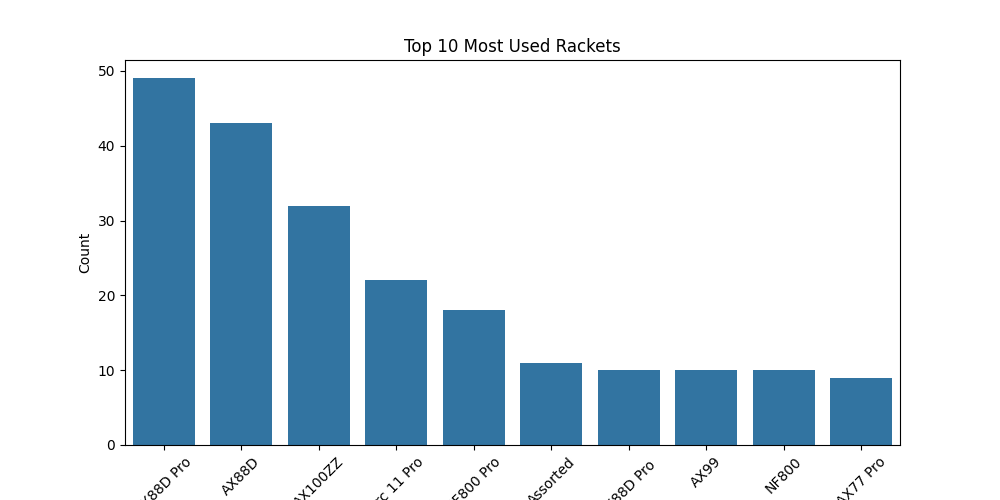
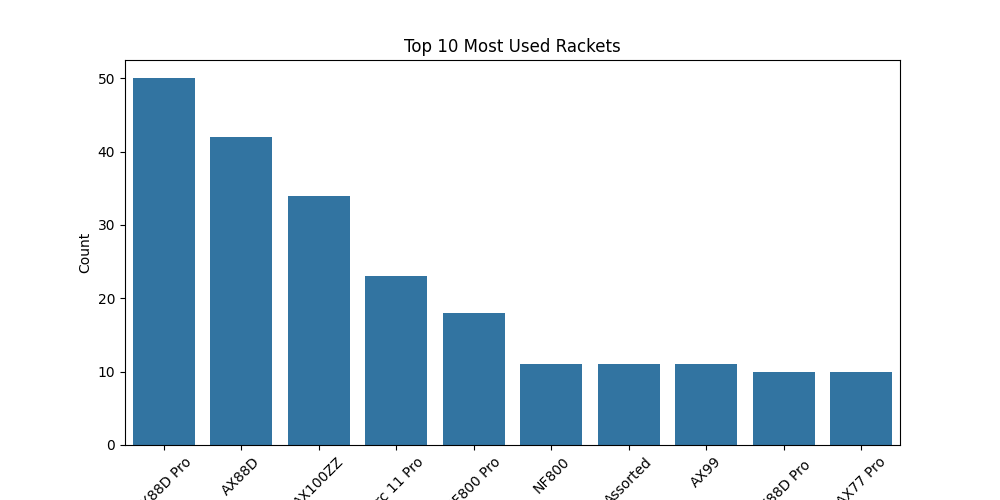
test

diff --git a/scripts/data_analysis.py b/scripts/data_analysis.py
@@ -1,25 +1,42 @@
+import os
 import pandas as pd
 import matplotlib.pyplot as plt
 import seaborn as sns
+from pandas.core.algorithms import nunique_ints
+
+# Ensures output directories do exist in project folder
+os.makedirs("images", exist_ok=True)
 
 # Load dataset (replace 'your_data.csv' with actual file)
 df = pd.read_csv("/Users/brandonlee/PycharmProjects/Badminton_Racket_Analysis/data/RestringLog.csv")
 
+# Start of Markdown Summary
+summary_lines = []
+
 # 1. Basic Descriptive Statistics
-print("Unique Players:", df['NameId'].nunique())
-print("Unique Rackets:", df['RacketId'].nunique())
-print("Unique Strings:", df['StringId'].nunique())
+unique_players = df['NameID'].nunique()
+unique_rackets = df['RacketID'].nunique()
+unique_strings = df['StringID'].nunique()
+
+summary_lines.append(f"#Stringing Analysis Summary\n")
+summary_lines.append(f"**Unique Players:** {unique_players}")
+summary_lines.append(f"**Unique Rackets:** {unique_rackets}")
+summary_lines.append(f"**Unique Strings:** {unique_strings}\n")
 
 # Most popular rackets and strings
 top_rackets = df['Racket'].value_counts().head(10)
 top_strings = df['String'].value_counts().head(10)
 
-print("\nTop Rackets:\n", top_rackets)
-print("\nTop Strings:\n", top_strings)
+summary_lines.append("## 🏸 Top 10 Most Used Rackets\n")
+summary_lines.append(top_rackets.to_markdown())
+
+summary_lines.append(("## 🧵Top 10 Most Used Strings\n"))
+summary_lines.append(top_strings.to_markdown())
 
 # Average string tension per racket
 avg_tension_racket = df.groupby("Racket")["Tension"].mean().sort_values(ascending=False)
-print("\nAverage Tension by Racket:\n", avg_tension_racket.head(10))
+summary_lines.append("\n## 📈 Average String Tension by Racket (Top 10)\n")
+summary_lines.append(avg_tension_racket.head(10).to_frame().to_markdown())
 
 # 2. Visualizations
 
@@ -64,5 +81,9 @@ lower_bound = Q1 - 1.5 * IQR
 upper_bound = Q3 + 1.5 * IQR
 
 outliers = df[(df["Tension"] < lower_bound) | (df["Tension"] > upper_bound)]
-print("\nOutliers in String Tension:\n", outliers)
+summary_lines.append(f"\n## ⚠ Tension Outliers\n")
+summary_lines.append(f"Total Outliers Detected: **{len(outliers)}**")
+
+with open("summary.md", "w") as f:
+    f.write("\n".join(summary_lines))
 

diff --git a/scripts/summary.md b/scripts/summary.md
@@ -1,0 +1,53 @@
+#Stringing Analysis Summary
+
+**Unique Players:** 46
+**Unique Rackets:** 36
+**Unique Strings:** 11
+
+## 🏸 Top 10 Most Used Rackets
+
+| Racket     |   count |
+|:-----------|--------:|
+| AX88D Pro  |      50 |
+| AX88D      |      42 |
+| AX100ZZ    |      34 |
+| Arc 11 Pro |      23 |
+| NF800 Pro  |      18 |
+| NF800      |      11 |
+| Assorted   |      11 |
+| AX99       |      11 |
+| AX88D Pro  |      10 |
+| AX77 Pro   |      10 |
+## 🧵Top 10 Most Used Strings
+
+| String   |   count |
+|:---------|--------:|
+| BG66U    |      80 |
+| NBG95    |      60 |
+| BG65Ti   |      52 |
+| BG80     |      21 |
+| Gosen    |      17 |
+| Ex65     |      15 |
+| BG65     |      14 |
+| NBG98    |       7 |
+| AB       |       4 |
+| Ex68     |       3 |
+
+## 📈 Average String Tension by Racket (Top 10)
+
+| Racket          |   Tension |
+|:----------------|----------:|
+| Ryuga II        |   29      |
+| Z Strike        |   28.875  |
+| AX100ZZ         |   28.3529 |
+| AX99 Pro        |   28.2    |
+| AX88D           |   28.1667 |
+| AuraSpeed 90K M |   28      |
+| Vanguard 11     |   28      |
+| V11             |   28      |
+| NR800           |   28      |
+| Drive9X         |   28      |
+
+## ⚠ Tension Outliers
+
+Total Outliers Detected: **22**

diff --git a/README.md b/README.md
@@ -50,52 +50,6 @@ This project explores trends in badminton racket and string preferences, analyzi
 ### **Boxplot**
 ![boxplot](images/boxplot_tension.png)
 
-### **Output**
-Unique Players: 38 <br>
-Unique Rackets: 31  
-Unique Strings: 11  
-
-Top Rackets:
- Racket
-AX88D Pro     46
-AX88D         38
-AX100ZZ       28
-Arc 11 Pro    21
-NF800 Pro     18
-NF800         10
-AX88D Pro     10
-Assorted      10
-Z Strike       8
-AX77 Pro       8
-Name: count, dtype: int64
-
-Top Strings:
- String
-BG66U     75
-NBG95     56
-BG65Ti    41
-BG80      20
-Gosen     17
-Ex65       9
-BG65       8
-NBG98      7
-AB         3
-Ex68       3
-Name: count, dtype: int64
-
-Average Tension by Racket:
- Racket
-Ryuga II       29.000000
-Z Strike       28.875000
-AX100ZZ        28.464286
-AX77 Pro       28.375000
-AX99 Pro       28.200000
-AX88D          28.078947
-Vanguard 11    28.000000
-V11            28.000000
-Drive9X        28.000000
-NR800          28.000000
-Name: Tension, dtype: float64
 
 
 ## 🔧 Installation
